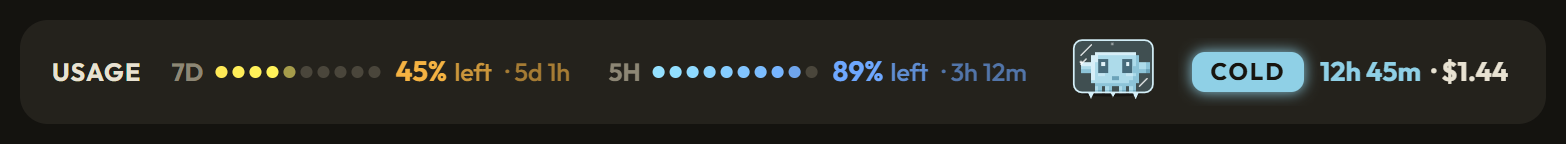
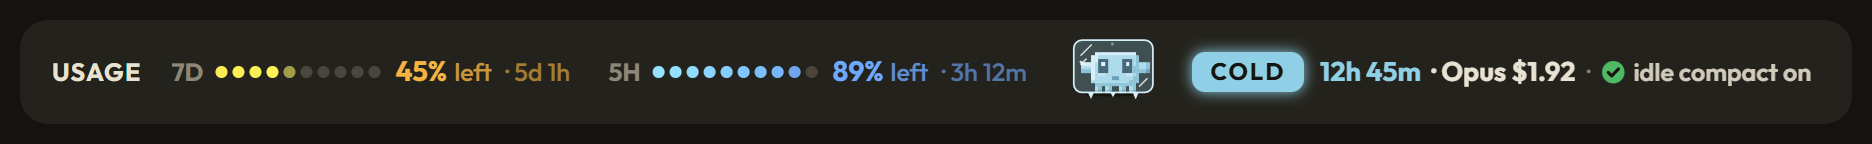
Refresh band screenshots and README

Changed region(s): [[0.0307, 0.25, 0.9808, 0.6944]]

diff --git a/assets/capture.ts b/assets/capture.ts
@@ -15,11 +15,13 @@ if (!outDir) throw new Error('outDir required')
 const EDGE = 'C:/Program Files (x86)/Microsoft/Edge/Application/msedge.exe'
 const PORT = 9333
 const NOW = Date.parse('2026-11-05T12:00:00Z')
-const options = parseOptions({})
+// Claude Code's idle compaction on, as on an account in its rollout, so the band shows its timer.
+const options = { ...parseOptions({}), builtin: { minTokens: 200_000, fireAt: 0.9 } }
 const HOUR = 60 * MINUTE
 
-// Example figures only: a 180k context on Opus 5.5, priced by the mod's own table.
-const core = { ...EMPTY, tokens: 180_000, window: 1_000_000, model: 'claude-opus-5-5' }
+// Example figures only: a 240k context on Opus 5.5, priced by the mod's own table.
+const MODEL = 'claude-opus-5-5'
+const core = { ...EMPTY, tokens: 240_000, window: 1_000_000, model: MODEL, replyModel: MODEL }
 const rates = (sevenDay: number, fiveHour: number) => [
   { kind: 'seven_day', percentUsed: sevenDay, resetsAt: new Date(NOW + 121 * HOUR).toISOString() },
   { kind: 'five_hour', percentUsed: fiveHour, resetsAt: new Date(NOW + 3.2 * HOUR).toISOString() },
@@ -31,10 +33,11 @@ function drawings(state: State) {
   const value = {
     ...core,
     lastAt: NOW - state.idleMin * MINUTE,
+    byModel: { 'opus-5-5': NOW - state.idleMin * MINUTE },
     compacted: state.compacted ?? false,
     tokens: state.compacted ? 12_000 : core.tokens,
   }
-  const cache = cacheParts(value, NOW, options)!
+  const cache = cacheParts(value, NOW, options, MODEL)!
   const [a, b] = state.used ?? [11, 33]
 
   return {

diff --git a/README.md b/README.md
@@ -1,17 +1,17 @@
 # cache-keeper
 
 A Claude Code mod that makes an idle session cheap to come back to.
-It combines the ideas of [ribbon](https://github.com/robonuggets/ribbon) and [cache-tax](https://github.com/karanb192/cache-tax) (both MIT) with an auto compact of its own.
+It combines the ideas of [ribbon](https://github.com/robonuggets/ribbon) and [cache-tax](https://github.com/karanb192/cache-tax) (both MIT) with an idle compaction status and an optional auto compact of its own.
 The code and mascot art are written here; none is copied from either project.
 
 ![The band counting down, compacting, then going cold](media/cache-keeper.gif)
 
 | Part | From | What it does |
 | --- | --- | --- |
-| Band above the prompt | ribbon | 7D and 5H usage left with reset times, then the mascot, cache state, next-message cost and when compaction runs. |
-| Cold-send guard | cache-tax | Before a message that would re-write a large cold cache, asks with the estimated cost. "Don't send" puts your text back in the box. |
+| Band above the prompt | ribbon | 7D and 5H usage left with reset times, then the mascot, cache state, next-message cost and idle compaction status. |
+| Cold-send guard | cache-tax | On Opus or Sonnet, before a message that would re-write a large cold cache, asks with the estimated cost and offers a cheaper model. "Don't send" puts your text back in the box. |
 | `/keepwarm` | cache-tax | Billed pings keep the cache alive for a window you choose. Manual only here. |
-| Auto compact | new | Compacts once when the session idles, just before the cache goes cold. |
+| Auto compact fallback | new | Off by default. Compacts once when the session idles, just before the cache goes cold. |
 
 ## Install
 
@@ -51,15 +51,59 @@ The desktop app, VS Code and mobile draw it from SVG in [hooks/art.ts](hooks/art
 ![Compacted](media/band-compacted.png)
 ![Low usage](media/band-low-usage.png)
 
-These images use example figures.
+These images use example figures: a 240k context on Opus 5.5, with Claude Code's idle compaction on.
 [assets/capture.ts](assets/capture.ts) rebuilds them from the real drawings, using Bun and headless Edge; ffmpeg encodes the GIF.
 
 All motion is CSS, so the system's reduced-motion setting stops it.
 Text uses Outfit, embedded as a subset under the SIL Open Font License ([assets/OFL.txt](assets/OFL.txt)); [assets/build-font.py](assets/build-font.py) rebuilds `hooks/font.ts`.
 
-## Auto compact
+## Models and cost
 
-With a 1h cache the mod compacts at 55 minutes idle, and with a 5m cache at 4 minutes.
+Each model keeps its own prompt cache, so the band tracks each one separately within a session.
+It prices the next message on the model selected now: a cache read where that model's cache is warm, a write of the whole context where it is cold.
+Switch with `/model` and the band shows the new model's state and price before you send, so switching from a warm Haiku to an Opus that last replied hours ago shows Opus cold.
+A model name the price table does not list, such as `default`, is priced as the last model selected.
+After a restart or resume, the time since the last reply is put on the model that made it, not the model the session reopens on.
+
+`/cache-keeper` lists the next message's price on Fable, Opus, Sonnet and Haiku, each marked read or write.
+
+The guard skips Haiku, whose cold write is cheap.
+On Opus or Sonnet with a cold cache, it asks before sending and offers to switch to Haiku or Sonnet, each with its price; picking one switches the model and sends the message there.
+A message with attachments is offered no switch, since they do not survive the re-send.
+
+## Idle compaction
+
+Claude Code has its own idle compaction.
+It compacts a long idle session before the prompt cache expires, or writes the summary while you are away and swaps it in when you come back.
+It is a staged rollout: no setting turns it on, and Claude Code turns it on for an account by itself.
+Where it is on, `/config` lists an `Idle compaction` row, and `"idleCompaction": false` in `settings.json` turns it off.
+In Claude Code 2.1.317 it acts at 90% of a 1h cache's life (54 minutes idle), on a context of 200k tokens or more, and only while auto-compact is on.
+
+The band always names idle compaction, with an icon whose shape and colour both say the state, so it reads at a glance without relying on colour:
+
+| Icon | Band | Means |
+| --- | --- | --- |
+| Amber clock | `idle compact in 44m` | Claude Code's idle compaction will act this idle period, in 44 minutes. |
+| Green tick | `idle compact on` | It is on, but not for this idle period: the context is under its floor, or the cache is cold. |
+| Grey struck-out ring | `idle compact off` | Neither it nor the fallback runs. |
+| Amber clock | `auto compact in 45m` | cache-keeper's fallback will compact in 45 minutes. |
+| Green tick | `auto compact on` | The fallback is on, but waits: no reply in this process yet, a context under its floor, or a cold cache. |
+
+The terminal draws the same states as `◷`, `●` and `○`.
+The rollout flag is read from `~/.claude.json` and the setting from `~/.claude/settings.json`; neither is changed.
+The timer is the mod's reading of how Claude Code 2.1.317 times it, not a figure Claude Code reports.
+
+## Auto compact fallback
+
+For an account or session without Claude Code's idle compaction, or for a different idle time, turn the fallback on:
+
+```sh
+printf '%s\n' '{"autoCompact":"on"}' | claude plugin configure cache-keeper@cache-keeper --values-stdin
+```
+
+With a 1h cache it compacts at 55 minutes idle, and with a 5m cache at 4 minutes.
+Set `compactAfter` to `45m`, `30m`, `15m` or `5m` for an earlier one; a duration past the cache TTL is held to a minute before cold.
+While the fallback is on, the band shows its timer rather than Claude Code's.
 The compaction reads the still-warm cache, so your next message pays for a small context instead of a cold re-write of a large one.
 
 It runs only when all of these hold:
@@ -67,29 +111,30 @@ It runs only when all of these hold:
 - No turn is running, no background agent is working, and the prompt box is empty.
 - The cache is still warm, since compacting a cold cache would pay the re-write it exists to avoid.
 - The context is at or above the floor, 50k tokens by default.
-- Keepwarm is not armed, and auto compact is on.
+- Keepwarm is not armed, and a reply has finished in this process, so a resumed session is never compacted unasked.
 - It has not compacted or tried to since the last real turn.
 
 The last rule is what stops a recompact.
-Any compaction, including `/compact` and the engine's own, sets the flag, a failed or vetoed attempt counts as the try, and only a new turn clears it.
-The flag is saved per session, so a restart or resume does not compact the same context again.
+Any compaction, including `/compact` and Claude Code's own, sets the flag, a failed or vetoed attempt counts as the try, and only a new turn clears it.
 
 A compaction is one billed request and replaces detail with a summary, even if you never come back to the session.
-Turn it off with the `autoCompact` option or, for one session, `/cache-keeper compact off`.
+`/cache-keeper compact off` turns the fallback off for one session.
+In an interactive session the mod compacts with a direct call; a desktop or SDK session refuses that call, so the mod runs `/compact` as if typed.
 
 ## Commands
 
 | Command | Effect |
 | --- | --- |
 | `/cache-keeper` | Shows cache state, usage left and settings. |
-| `/cache-keeper compact on\|off` | Sets auto compact for this session. |
+| `/cache-keeper compact on\|off` | Sets the auto compact fallback for this session. |
 | `/keepwarm [6h\|90m\|off]` | Arms pings for a window, 6h by default and 168h at most. Auto compact waits until it ends. |
 
 ## Options
 
 | Option | Default | Values |
 | --- | --- | --- |
-| `autoCompact` | `on` | `on`, `off` |
+| `autoCompact` | `off` | `off`, `on` |
+| `compactAfter` | `auto` | `auto`, `55m`, `45m`, `30m`, `15m`, `5m` |
 | `guard` | `ask` | `ask`, `warn`, `off` |
 | `cacheTtl` | `1h` | `1h`, `5m` |
 | `minTokens` | `50000` | `20000`, `50000`, `100000`, `200000` |
@@ -103,8 +148,9 @@ Set them in the config menu or under `pluginConfigs` in settings.
   Set `cacheTtl` to `5m` on an API-key session, or the mod will compact and warn too late.
 - Dollar figures are API list-price estimates for the context alone, not subscription charges.
   Rates live in [hooks/logic.ts](hooks/logic.ts), checked 2026-11-05 against the `claude-api` skill of Claude Code 2.1.317.
-- Keepwarm does not start by itself, unlike cache-tax, because auto compact covers the same idle time.
+- Keepwarm does not start by itself, unlike cache-tax, because idle compaction covers the same idle time.
 - A draft left in the prompt box holds compaction back until the cache goes cold.
+- Claude Code's idle compaction is read from its rollout flag and settings as Claude Code 2.1.317 reads them; a later version may change either.
 - The hook API is early access and can change between Claude Code releases.
 
 ## Run and test
